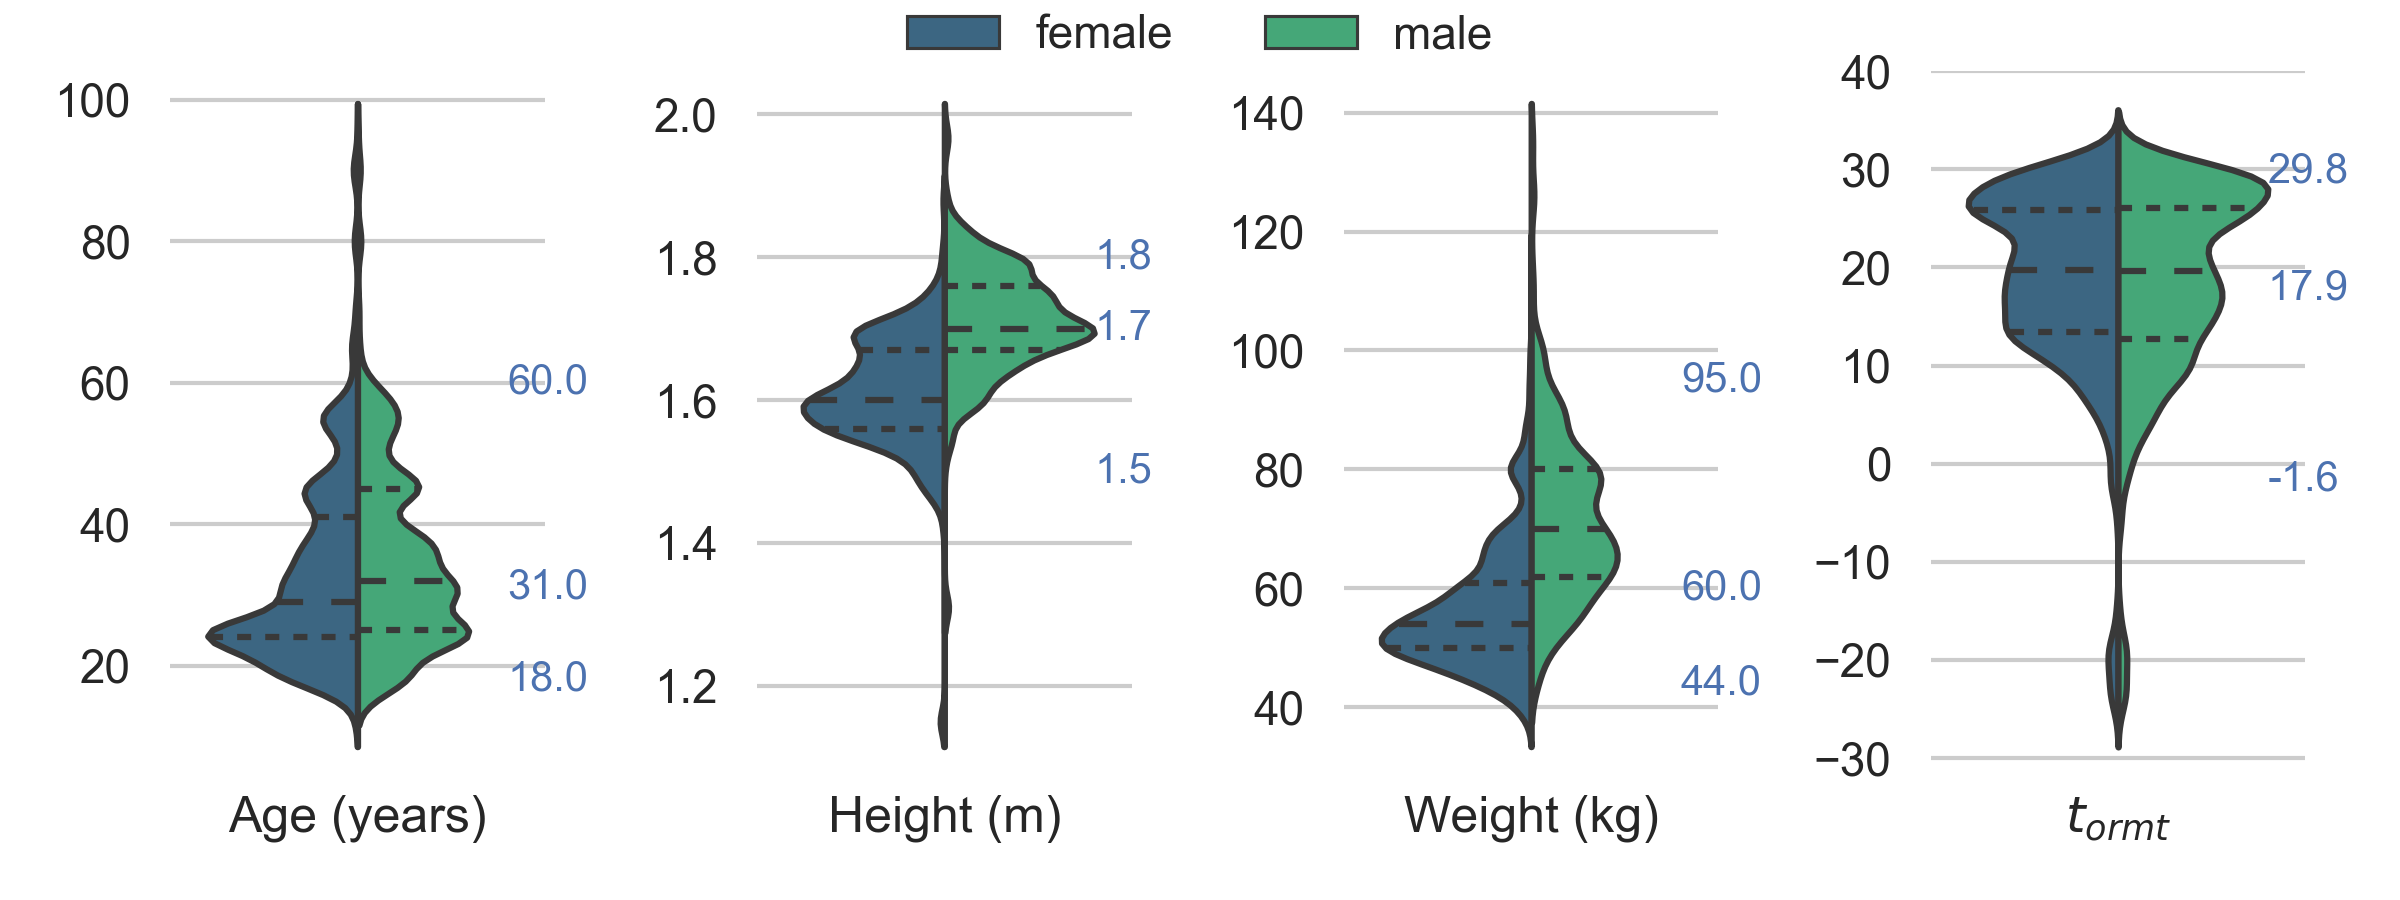
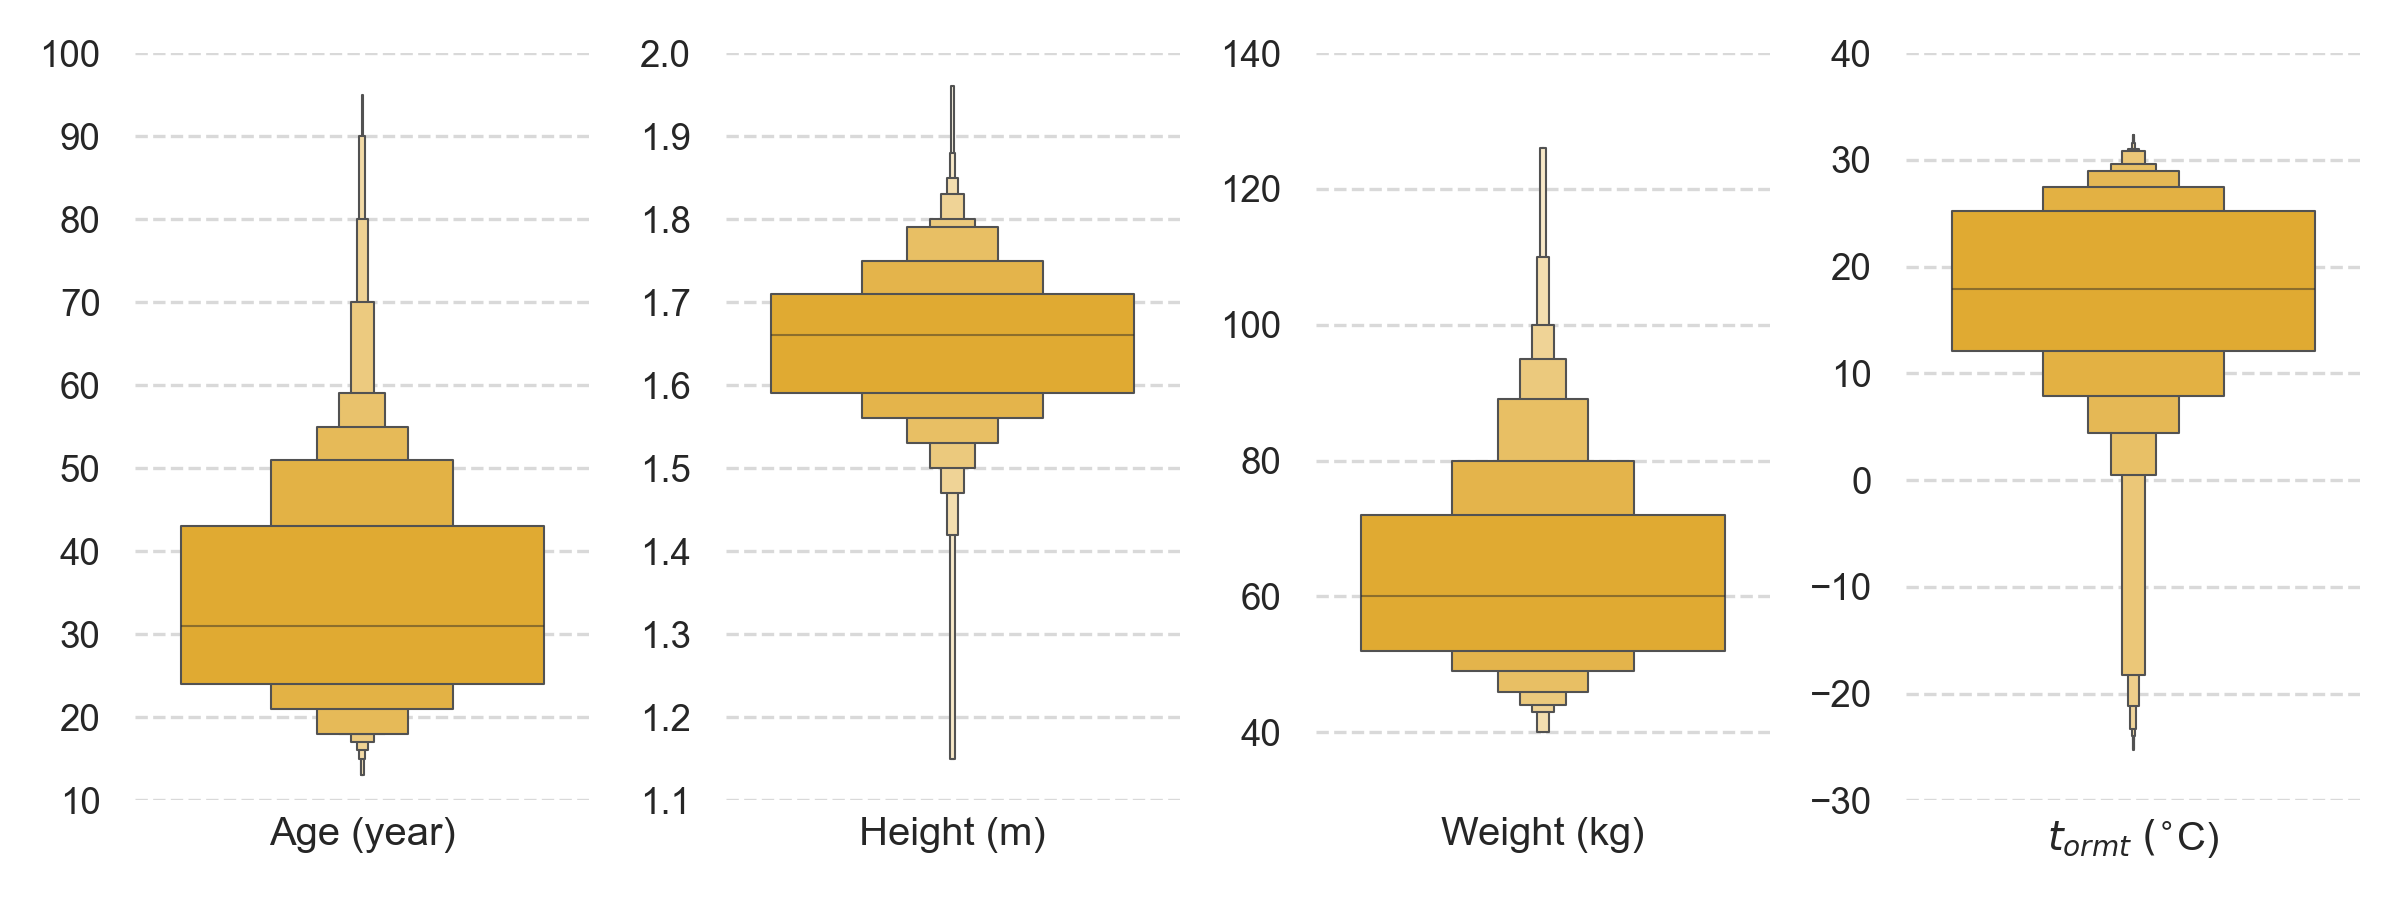
paper: updated Fig 2 and 3

diff --git a/main.py b/main.py
@@ -53,6 +53,8 @@ palette_tsv = [
 ]
 
 # sns.palplot(palette_tsv)
+# sns.palplot(palette_tp)
+# sns.palplot(palette_primary)
 
 palette_primary = [
     "#FFBA22",
@@ -1564,7 +1566,9 @@ def plot_distribution_variable():
     f, axs = plt.subplots(1, 6, constrained_layout=True, figsize=(8, 3))
 
     for ix, var in enumerate(["ta", "tr", "rh", "vel", "clo", "met"]):
-        sns.boxenplot(y=var, data=df, ax=axs[ix], color="lightgray")
+        sns.boxenplot(
+            y=var, data=df, ax=axs[ix], color="#FDB515", showfliers=False, linewidth=0.5
+        )
         axs[ix].set(
             ylabel="",
             xlabel=f"{var_names[var]} ({var_units[var]})",
@@ -1579,19 +1583,22 @@ def plot_distribution_variable():
             axs[ix].set(yticks=(np.arange(0, 1.8, 0.3)))
 
         desc = desc.round(2)
-        if var in ["ta", "tr", "rh"]:
+        if var in ["ta", "tr", "rh", "met", "clo"]:
             desc = desc.round(1)
+        if var in ["rh"]:
+            desc = desc.astype(int)
 
-        axs[ix].text(0.5, desc["2.5%"], desc["2.5%"], size="small", c="b", va="center")
+        text_color = "#00B0Da"
+        axs[ix].text(0.5, desc["2.5%"], desc["2.5%"], c=text_color, va="center")
         axs[ix].text(
             0.5,
             desc["97.5%"],
             desc["97.5%"],
-            size="small",
-            c="b",
+            c=text_color,
             va="center",
         )
-        axs[ix].text(0.5, desc["50%"], desc["50%"], size="small", c="b", va="center")
+        axs[ix].text(0.5, desc["50%"], desc["50%"], c=text_color, va="center")
+
     sns.despine(bottom=True, left=True)
     plt.savefig("./Manuscript/src/figures/dist_input_data.png", dpi=300)
     plt.show()
@@ -1609,44 +1616,31 @@ def plot_distribution_variable():
     df["const"] = 1
     f, axs = plt.subplots(1, 4, figsize=(8, 3))
     for ix, var in enumerate(["age", "ht", "wt", "t_mot_isd"]):
-        sns.violinplot(
-            y=var,
-            x="const",
-            data=df,
-            ax=axs[ix],
-            hue="gender",
-            split=True,
-            inner="quartile",
-            palette="viridis",
+        sns.boxenplot(
+            y=var, data=df, ax=axs[ix], color="#FDB515", showfliers=False, linewidth=0.5
         )
-        axs[ix].get_legend().remove()
         axs[ix].set(xlabel=var_names[var], xticks=[], ylabel="")
+        if var == "age":
+            axs[ix].set(ylim=(10, 100))
+        if var == "ht":
+            axs[ix].set(ylim=(1.1, 2))
+        if var == "wt":
+            axs[ix].set(ylim=(30, 140))
         desc = df[var].describe(percentiles=[0.025, 0.25, 0.5, 0.75, 0.975]).round(1)
 
-        axs[ix].text(0.4, desc["2.5%"], desc["2.5%"], size="small", c="b", va="center")
-        axs[ix].text(
-            0.4,
-            desc["97.5%"],
-            desc["97.5%"],
-            size="small",
-            c="b",
-            va="center",
-        )
-        axs[ix].text(0.4, desc["50%"], desc["50%"], size="small", c="b", va="center")
+        # axs[ix].text(0.45, desc["2.5%"], desc["2.5%"], c=text_color, va="center")
+        # axs[ix].text(
+        #     0.45,
+        #     desc["97.5%"],
+        #     desc["97.5%"],
+        #     c=text_color,
+        #     va="center",
+        #     )
+        # axs[ix].text(0.45, desc["50%"], desc["50%"], c=text_color, va="center")
 
         if var == "t_mot_isd":
             axs[ix].set(yticks=(np.arange(-30, 50, 10)))
     sns.despine(bottom=True, left=True)
-    handles, labels = axs[ix].get_legend_handles_labels()
-    f.legend(
-        handles=handles,
-        labels=labels,
-        bbox_to_anchor=(0.5, 1.03),
-        loc="upper center",
-        # borderaxespad=0,
-        frameon=False,
-        ncol=3,
-    )
     plt.tight_layout()
     plt.savefig("./Manuscript/src/figures/dist_other_data.png", dpi=300)
     plt.show()
@@ -2306,8 +2300,116 @@ def table_f1_scores():
     print(df_f1.to_markdown())
 
 
-# plt.close("all")
-# plot_bias_distribution_by_variable()
+def pmv_jiayu_fed(tdb, tr, vr, rh, met, clo, wme=0):
+
+    pa = rh * 10 * math.exp(16.6536 - 4030.183 / (tdb + 235))
+
+    icl = 0.155 * clo  # thermal insulation of the clothing in M2K/W
+    m = met * 58.15  # metabolic rate in W/M2
+    w = wme * 58.15  # external work in W/M2
+    mw = m - w  # internal heat production in the human body
+    # calculation of the clothing area factor
+    if icl <= 0.078:
+        f_cl = 1 + (1.29 * icl)  # ratio of surface clothed body over nude body
+    else:
+        f_cl = 1.05 + (0.645 * icl)
+
+    # heat transfer coefficient by forced convection
+    hcf = 12.1 * math.sqrt(vr)
+    hc = hcf  # initialize variable
+    taa = tdb + 273
+    tra = tr + 273
+    t_cla = taa + (35.5 - tdb) / (3.5 * icl + 0.1)
+
+    p1 = icl * f_cl
+    p2 = p1 * 3.96
+    p3 = p1 * 100
+    p4 = p1 * taa
+    p5 = (308.7 - 0.028 * mw) + (p2 * (tra / 100.0) ** 4)
+    xn = t_cla / 100
+    xf = t_cla / 50
+    eps = 0.00015
+
+    n = 0
+    while abs(xn - xf) > eps:
+        xf = (xf + xn) / 2
+        hcn = 2.38 * abs(100.0 * xf - taa) ** 0.25
+        if hcf > hcn:
+            hc = hcf
+        else:
+            hc = hcn
+        xn = (p5 + p4 * hc - p2 * xf**4) / (100 + p3 * hc)
+        n += 1
+        if n > 150:
+            raise StopIteration("Max iterations exceeded")
+
+    tcl = 100 * xn - 273
+
+    # heat loss diff. through skin
+    hl1 = 3.05 * 0.001 * (5733 - (6.99 * mw) - pa)
+    # heat loss by sweating
+    if mw > 58.15:
+        hl2 = 0.42 * (mw - 58.15)
+    else:
+        hl2 = 0
+    # latent respiration heat loss
+    hl3 = 1.7 * 0.00001 * m * (5867 - pa)
+    # dry respiration heat loss
+    hl4 = 0.0014 * m * (34 - tdb)
+    # heat loss by radiation
+    hl5 = 3.96 * f_cl * (xn**4 - (tra / 100.0) ** 4)
+    # heat loss by convection
+    hl6 = f_cl * hc * (tcl - tdb)
+
+    ts = 0.303 * math.exp(-0.036 * m) + 0.028
+    return mw - hl1 - hl2 - hl3 - hl4 - hl5 - hl6
+
+    plt.close("all")
+    y_array = []
+    l_array = []
+    for t in np.arange(20, 40, 0.1):
+        y = -8.471 + 0.33 * t
+        met = 0.98
+        l = pmv_jiayu_fed(t, t, 0.1, 50, met, 0.6)
+        y_array.append(y)
+        l_array.append(l)
+        # print(t, l)
+    plt.plot(l_array, y_array, c="g")
+    y_array = []
+    l_array = []
+    for t in np.arange(20, 40, 0.1):
+        y = -3.643 + 0.175 * t
+        met = 1.56
+        l = pmv_jiayu_fed(t, t, 0.2, 50, met, 0.6)
+        pmv = l * (0.303 * math.exp(-0.036 * met * 58.12) + 0.028)
+        pmv = l * (0.31 * math.exp(-0.04 * met * 58.12) + 0.028)
+        y_array.append(y)
+        l_array.append(l)
+        # print(t, l)
+    plt.plot(l_array, y_array, c="gray")
+    # plt.plot([-30, 30], [-2, +2])
+
+    [x for x in df.columns if "_hb" in x]
+    plt.scatter(y=df["thermal_sensation"], x=df["pmv_hb"], c="gray")
+    plt.figure()
+    sns.regplot(
+        y=df["pmv_hb"],
+        x=df["thermal_sensation"],
+        data=df,
+        scatter_kws={"s": 5, "alpha": 0.5, "color": "lightgray"},
+        lowess=True,
+    )
+    plt.tight_layout()
+
+    # logistic regression
+    from sklearn.linear_model import LogisticRegression
+
+    df_reg = df[["pmv_hb", "met", "clo", "thermal_sensation_round"]].dropna()
+    clf = LogisticRegression(random_state=0).fit(
+        df_reg[["pmv_hb", "met", "clo"]], df_reg["thermal_sensation_round"]
+    )
+    clf.predict([[0, 1, 0.6]])
+
 
 if __name__ == "__main__":
 
@@ -2328,6 +2430,7 @@ if __name__ == "__main__":
 
     plt.rc("axes.spines", top=False, right=False, left=False)
     plt.rcParams["font.family"] = "sans-serif"
+    plt.rcParams["font.size"] = 8.8
 
     applicability_limits = {
         "ta": [10, 30],
@@ -2355,10 +2458,10 @@ if __name__ == "__main__":
         "thermal_sensation": "Thermal Sensation Vote (TSV)",
         "thermal_sensation_round": "Thermal Sensation Vote (TSV)",
         "thermal_preference": "Thermal Preference Vote (TPV)",
-        "age": "Age (years)",
+        "age": "Age (year)",
         "ht": "Height (m)",
         "wt": "Weight (kg)",
-        "t_mot_isd": r"$t_{ormt}$",
+        "t_mot_isd": r"$t_{ormt}$" + r" $(^{\circ}$C)",
         "pmv": r"PMV",
         "pmv_round": r"PMV",
         "lr_hb_pmv": r"PMV$_{hb}$",
@@ -2401,116 +2504,6 @@ if __name__ == "__main__":
 
 
 if __name__ == "__plot__":
-
-    # def pmv_jiayu_fed(tdb, tr, vr, rh, met, clo, wme=0):
-    #
-    #     pa = rh * 10 * math.exp(16.6536 - 4030.183 / (tdb + 235))
-    #
-    #     icl = 0.155 * clo  # thermal insulation of the clothing in M2K/W
-    #     m = met * 58.15  # metabolic rate in W/M2
-    #     w = wme * 58.15  # external work in W/M2
-    #     mw = m - w  # internal heat production in the human body
-    #     # calculation of the clothing area factor
-    #     if icl <= 0.078:
-    #         f_cl = 1 + (1.29 * icl)  # ratio of surface clothed body over nude body
-    #     else:
-    #         f_cl = 1.05 + (0.645 * icl)
-    #
-    #     # heat transfer coefficient by forced convection
-    #     hcf = 12.1 * math.sqrt(vr)
-    #     hc = hcf  # initialize variable
-    #     taa = tdb + 273
-    #     tra = tr + 273
-    #     t_cla = taa + (35.5 - tdb) / (3.5 * icl + 0.1)
-    #
-    #     p1 = icl * f_cl
-    #     p2 = p1 * 3.96
-    #     p3 = p1 * 100
-    #     p4 = p1 * taa
-    #     p5 = (308.7 - 0.028 * mw) + (p2 * (tra / 100.0) ** 4)
-    #     xn = t_cla / 100
-    #     xf = t_cla / 50
-    #     eps = 0.00015
-    #
-    #     n = 0
-    #     while abs(xn - xf) > eps:
-    #         xf = (xf + xn) / 2
-    #         hcn = 2.38 * abs(100.0 * xf - taa) ** 0.25
-    #         if hcf > hcn:
-    #             hc = hcf
-    #         else:
-    #             hc = hcn
-    #         xn = (p5 + p4 * hc - p2 * xf ** 4) / (100 + p3 * hc)
-    #         n += 1
-    #         if n > 150:
-    #             raise StopIteration("Max iterations exceeded")
-    #
-    #     tcl = 100 * xn - 273
-    #
-    #     # heat loss diff. through skin
-    #     hl1 = 3.05 * 0.001 * (5733 - (6.99 * mw) - pa)
-    #     # heat loss by sweating
-    #     if mw > 58.15:
-    #         hl2 = 0.42 * (mw - 58.15)
-    #     else:
-    #         hl2 = 0
-    #     # latent respiration heat loss
-    #     hl3 = 1.7 * 0.00001 * m * (5867 - pa)
-    #     # dry respiration heat loss
-    #     hl4 = 0.0014 * m * (34 - tdb)
-    #     # heat loss by radiation
-    #     hl5 = 3.96 * f_cl * (xn ** 4 - (tra / 100.0) ** 4)
-    #     # heat loss by convection
-    #     hl6 = f_cl * hc * (tcl - tdb)
-    #
-    #     ts = 0.303 * math.exp(-0.036 * m) + 0.028
-    #     return mw - hl1 - hl2 - hl3 - hl4 - hl5 - hl6
-    #
-    # plt.close("all")
-    # y_array = []
-    # l_array = []
-    # for t in np.arange(20, 40, 0.1):
-    #     y = -8.471 + 0.33 * t
-    #     met = 0.98
-    #     l = pmv_jiayu_fed(t, t, 0.1, 50, met, 0.6)
-    #     y_array.append(y)
-    #     l_array.append(l)
-    #     # print(t, l)
-    # plt.plot(l_array, y_array, c="g")
-    # y_array = []
-    # l_array = []
-    # for t in np.arange(20, 40, 0.1):
-    #     y = -3.643 + 0.175 * t
-    #     met = 1.56
-    #     l = pmv_jiayu_fed(t, t, 0.2, 50, met, 0.6)
-    #     pmv = l * (0.303 * math.exp(-0.036 * met * 58.12) + 0.028)
-    #     pmv = l * (0.31 * math.exp(-0.04 * met * 58.12) + 0.028)
-    #     y_array.append(y)
-    #     l_array.append(l)
-    #     # print(t, l)
-    # plt.plot(l_array, y_array, c="gray")
-    # # plt.plot([-30, 30], [-2, +2])
-    #
-    # [x for x in df.columns if "_hb" in x]
-    # plt.scatter(y=df["thermal_sensation"], x=df["pmv_hb"], c="gray")
-    # plt.figure()
-    # sns.regplot(
-    #     y=df["pmv_hb"],
-    #     x=df["thermal_sensation"],
-    #     data=df,
-    #     scatter_kws={"s": 5, "alpha": 0.5, "color": "lightgray"},
-    #     lowess=True,
-    # )
-    # plt.tight_layout()
-    #
-    # # logistic regression
-    # from sklearn.linear_model import LogisticRegression
-    #
-    # df_reg = df[["pmv_hb", "met", "clo", "thermal_sensation_round"]].dropna()
-    # clf = LogisticRegression(random_state=0).fit(
-    #     df_reg[["pmv_hb", "met", "clo"]], df_reg["thermal_sensation_round"]
-    # )
-    # clf.predict([[0, 1, 0.6]])
 
     # Figure 1 and 2
     plot_distribution_variable()

diff --git a/Manuscript/src/sections/results.tex b/Manuscript/src/sections/results.tex
@@ -6,7 +6,9 @@
 While the \ac{db2} contains \var{entries_db_all} data points, only \var{entries_db_used} entries met the inclusion criteria listed in the Methodology section.
 The distribution of the six input variables used to calculate the PMV indices is visualized in Figure~\ref{fig:dist_input_data}.
 The 2.5th, 50th (median), and 97.5th percentiles are shown in blue.
-% todo: remove the gridlines or marker them very short; remove outliers or make the line very thin; keep one decimal for clo values; remove decimal point for RH; annotation font should be the same as the label and same size, change only the color; You can use black or blue (HEX: 003262, RGB (0, 50, 98)) for the chart; one decimal for met not two; the chart is a bit dense of information
+% TODO:
+%  remove the gridlines or marker them very short
+%  the chart is a bit dense of information
 \begin{figure*}[htb!]
     \centering
     \includegraphics[width=\textwidth]{figures/dist_input_data}
@@ -25,15 +27,18 @@ This lack of data in the \ac{db2} is particularly relevant for \ac{v}.
 The \ac{pmv} and \ac{pmv-ce} only differ when the value of \ac{v} $\geq$ \qty{0.1}{\m\per\s}, however, the median value in the \ac{db2} was \qty{0.08}{\m\per\s} suggesting that most of the data points were collected in buildings with low air movement.
 Consequently, we could not reliably test the accuracy of the \ac{pmv} formulations for values of \ac{v} $\geq$ \var{v_95_perc_max}.
 
-Figure~\ref{fig:dist_other_data} shows the distribution of age, height, weight, and running mean outdoor temperature grouped by sex.
+Figure~\ref{fig:dist_other_data} shows the distribution of age, height, weight, and running mean outdoor temperature.
 Less than half (\num{23300}) of the total entries have information about the participant's sex and are almost equally distributed among males \qty{52}{\percent} and females.
-Men were significantly heavier and taller than females.
 Ages are not normally distributed, the same is true for the running mean outdoor temperature.
 About half of the participants (\qty{52}{\percent}) were aged between \num{20} and \num{35} years old, and only \qty{2.5}{\percent} were older than 60.
 This limits our analysis to young adults and does not allow us to determine the accuracy of the \ac{pmv} and \ac{pmv-ce} models in predicting thermal sensation for children or older adults.
 The \ac{db2} does not contain information about the health status of the participants.
 Approximately \qty{56}{\percent} of the running mean outdoor temperature values where between \qtyrange{10}{25}{\celsius}.
-% todo: check that the colours are distinguishable for color blind and change them since I am using the same color palette to differentiate PMV and PMVCE; same comments as previous chart; use a boxen plot and have 4 for men and 4 for women. Tormt is missing the unit; age unot should be year. This figure can be merged with figure 2 because it is a visualization of the database. I would use blue (HEX: 003262, RGB (0, 50, 98)) and gold (HEX: FDB515, RGB (253, 181, 21)) as color because blue and green could be confounded by colorblind people. To be more consisten in the paper, I would use the letter value plots for this and the figure in section 3.3.2
+% todo:
+%  I merged men and women since not considering sex difference in the paper.
+%  This figure can be merged with figure 2 because it is a visualization of the database.
+%  To be more consisten in the paper, I would use the letter value plots for this and the figure in section 3.3.2
+% remove the gridlines or marker them very short;
 \begin{figure*}[htb!]
     \centering
     \includegraphics[width=\textwidth]{figures/dist_other_data}
